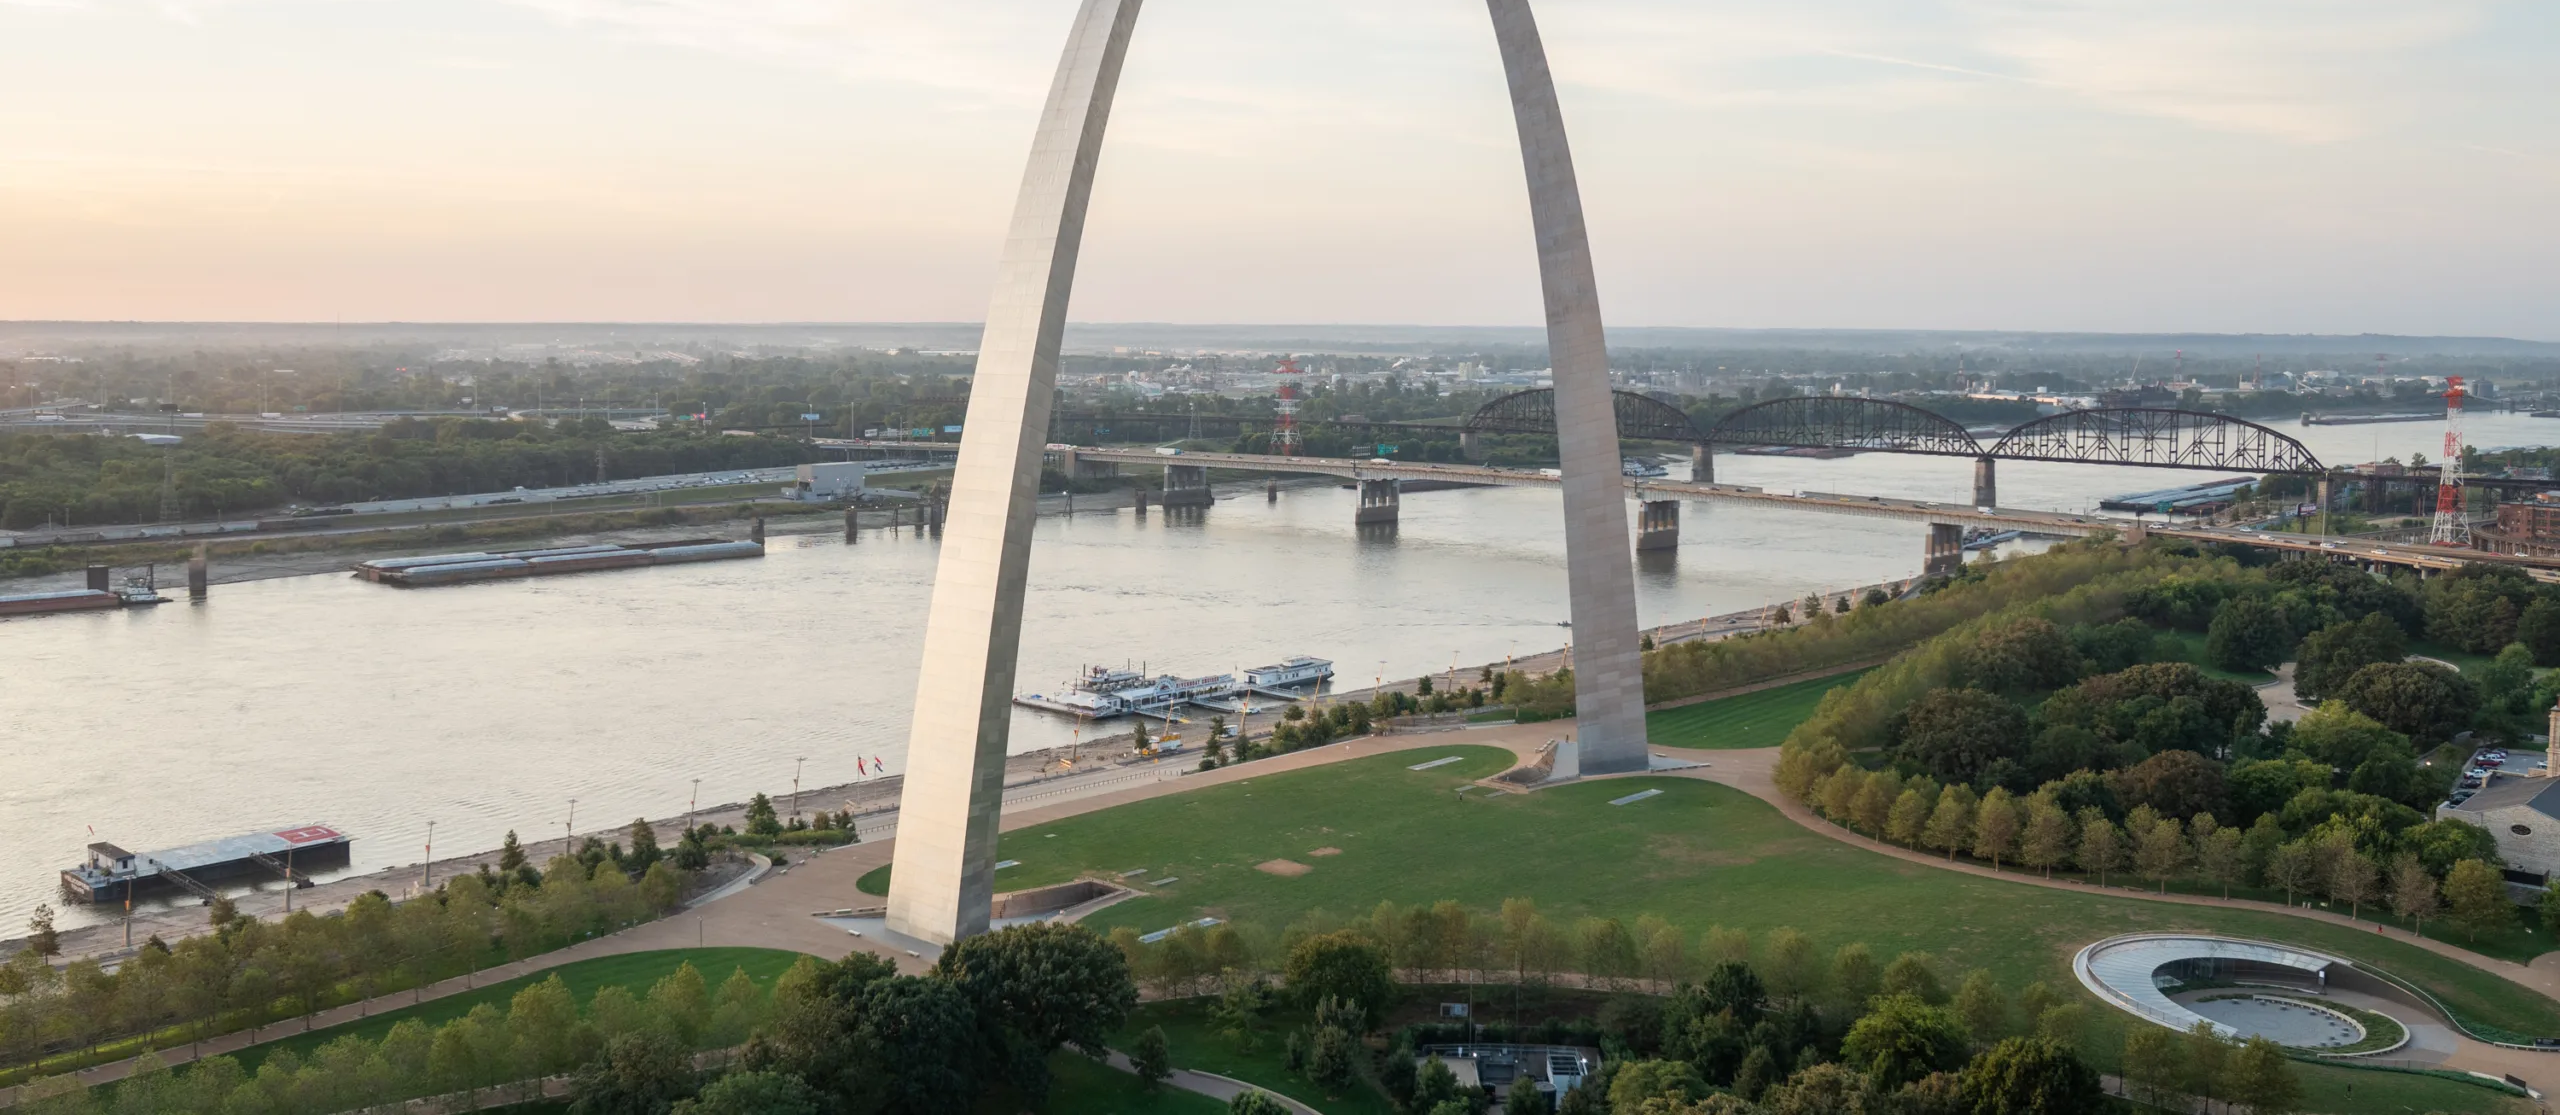
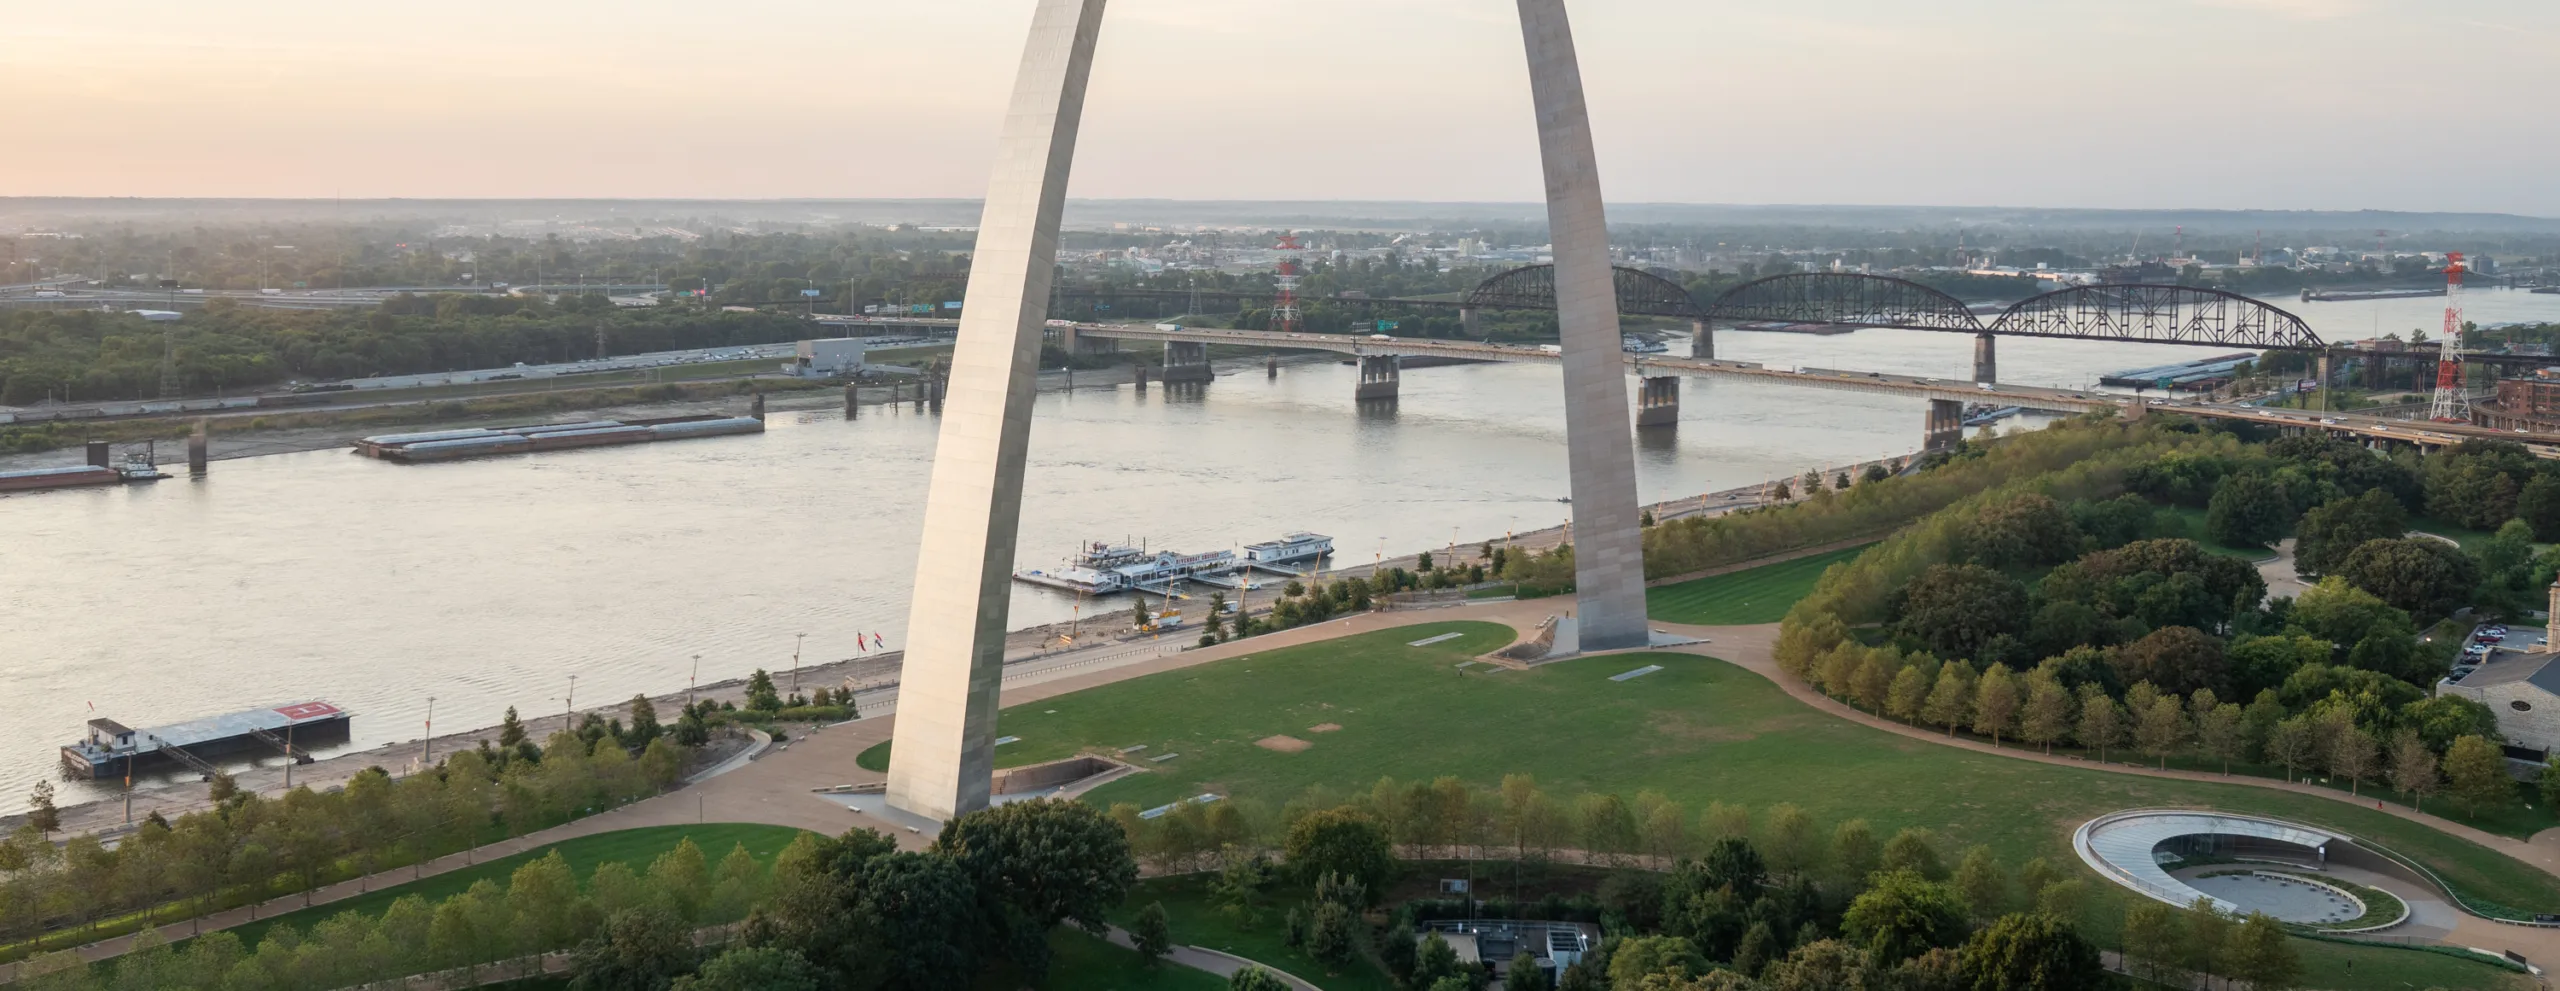
Fixed pr4

diff --git a/styles.css b/styles.css
@@ -77,7 +77,7 @@ hr {
 .quarto-title-banner {
   position: relative;
   overflow: hidden;
-  min-height: 550px;
+  min-height: 400px;
   display: flex;
   align-items: flex-end;
   background-size: cover;
